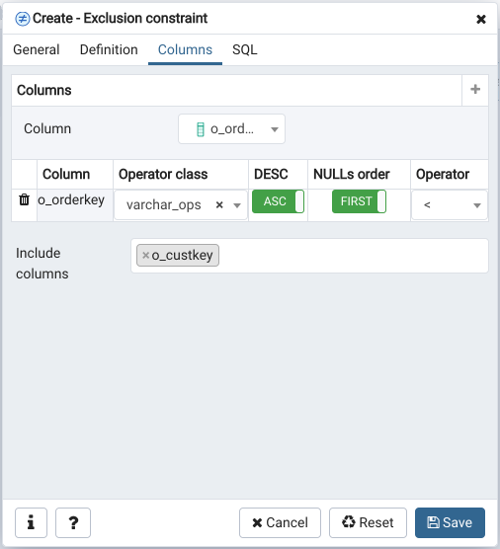
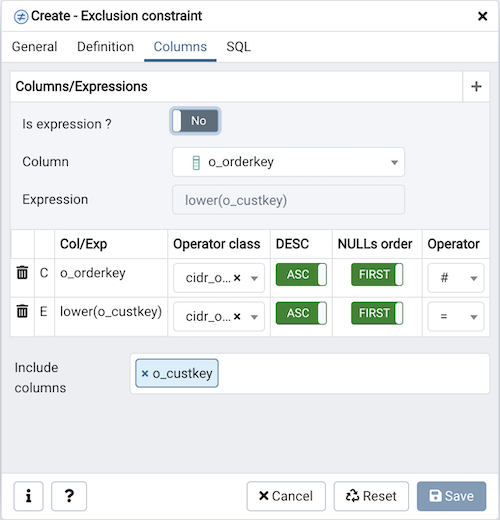
Added support for expression in exclusion constraints. Fixes #5571

diff --git a/web/pgadmin/browser/server_groups/servers/databases/schemas/tables/constraints/exclusion_constraint/static/js/exclusion_constraint.js b/web/pgadmin/browser/server_groups/servers/databases/schemas/tables/constraints/exclusion_constraint/static/js/exclusion_constraint.js
@@ -19,6 +19,7 @@ define('pgadmin.node.exclusion_constraint', [
   var ExclusionConstraintColumnModel = pgBrowser.Node.Model.extend({
     defaults: {
       column: undefined,
+      is_exp: false,
       oper_class: undefined,
       order: false,
       nulls_order: false,
@@ -32,8 +33,20 @@ define('pgadmin.node.exclusion_constraint', [
       return d;
     },
     schema: [{
-      id: 'column', label: gettext('Column'), type:'text', editable: false,
+      id: 'column', label: gettext('Col/Exp'), type:'text', editable: false,
       cell:'string',
+    },{
+      id: 'is_exp', label: '', type:'boolean', editable: false,
+      cell: Backgrid.StringCell.extend({
+        formatter: {
+          fromRaw: function (rawValue) {
+            return rawValue ? 'E' : 'C';
+          },
+          toRaw: function (val) {
+            return val;
+          },
+        },
+      }), visible: false,
     },{
       id: 'oper_class', label: gettext('Operator class'), type:'text',
       node: 'table', url: 'get_oper_class', first_empty: true,
@@ -175,7 +188,7 @@ define('pgadmin.node.exclusion_constraint', [
 
           self.column.set('options', []);
 
-          if (url && !_.isUndefined(col_type) && !_.isNull(col_type) && col_type != '') {
+          if (url) {
             var node = this.column.get('schema_node'),
               eventHandler = m.top || m,
               node_info = this.column.get('node_info'),
@@ -210,9 +223,11 @@ define('pgadmin.node.exclusion_constraint', [
     validate: function() {
       this.errorModel.clear();
       var operator = this.get('operator'),
-        column_name = this.get('column');
+        column_name = this.get('column'),
+        is_exp = this.get('is_exp');
       if (_.isUndefined(operator) || _.isNull(operator)) {
         var msg = gettext('Please specify operator for column: ') + column_name;
+        if(is_exp) msg = gettext('Please specify operator for expression: ') + column_name;
         this.errorModel.set('operator', msg);
         return msg;
       }
@@ -231,8 +246,15 @@ define('pgadmin.node.exclusion_constraint', [
         var self = this,
           node = 'exclusion_constraint',
           headerSchema = [{
-            id: 'column', label:'', type:'text',
-            node: 'column', control: Backform.NodeListByNameControl.extend({
+            id: 'is_exp', label: gettext('Is expression ?'), type: 'switch',
+            control: 'switch', controlLabelClassName: 'control-label pg-el-sm-4 pg-el-12',
+            controlsClassName: 'pgadmin-controls pg-el-sm-6 pg-el-12',
+          },{
+            id: 'column', label: gettext('Column'), type:'text',
+            controlLabelClassName: 'control-label pg-el-sm-4 pg-el-12',
+            controlsClassName: 'pgadmin-controls pg-el-sm-6 pg-el-12',
+            node: 'column', deps: ['is_exp'],
+            control: Backform.NodeListByNameControl.extend({
               initialize: function() {
                 // Here we will decide if we need to call URL
                 // Or fetch the data from parent columns collection
@@ -310,7 +332,8 @@ define('pgadmin.node.exclusion_constraint', [
                 }
               },
               template: _.template([
-                '<div class="<%=Backform.controlsClassName%> <%=extraClasses.join(\' \')%>">',
+                '<span class="<%=controlLabelClassName%>"><%=label%></span>',
+                '<div class="<%=controlsClassName%> <%=extraClasses.join(\' \')%>">',
                 '  <select class="pgadmin-node-select form-control" name="<%=name%>" style="width:100%;" value="<%-value%>" <%=disabled ? "disabled" : ""%> <%=required ? "required" : ""%> >',
                 '    <% for (var i=0; i < options.length; i++) { %>',
                 '    <% var option = options[i]; %>',
@@ -363,10 +386,21 @@ define('pgadmin.node.exclusion_constraint', [
             readonly: function() {
               return !_.isUndefined(self.model.get('oid'));
             },
+            disabled: function(m) {
+              return m.get('is_exp');
+            },
+          },{
+            id: 'exp', label: gettext('Expression'), type: 'text',
+            editable: true, deps: ['is_exp'],
+            controlLabelClassName: 'control-label pg-el-sm-4 pg-el-12',
+            controlsClassName: 'pgadmin-controls pg-el-sm-6 pg-el-12',
+            disabled: function(m) {
+              return !m.get('is_exp');
+            },
           }],
-          headerDefaults = {column: null},
+          headerDefaults = {is_exp: false, column: null, exp: null},
 
-          gridCols = ['column', 'oper_class', 'order', 'nulls_order', 'operator'];
+          gridCols = ['is_exp', 'column', 'oper_class', 'order', 'nulls_order', 'operator'];
 
         self.headerData = new (Backbone.Model.extend({
           defaults: headerDefaults,
@@ -396,21 +430,15 @@ define('pgadmin.node.exclusion_constraint', [
       },
 
       generateHeader: function(data) {
+        var isNew = _.isUndefined(this.model.get('oid'));
         var header = [
-          '<div class="subnode-header-form">',
+          '<div class="subnode-header-form '+ (isNew ? '' : 'd-none') +'">',
           ' <div>',
-          '  <div class="row">',
-          '   <div class="col-4">',
-          '    <label class="control-label"><%-column_label%></label>',
-          '   </div>',
-          '   <div class="col-4" header="column"></div>',
-          '  </div>',
+          '  <div header="is_exp"></div>',
+          '  <div header="column"></div>',
+          '  <div header="exp"></div>',
           ' </div>',
           '</div>'].join('\n');
-
-        _.extend(data, {
-          column_label: gettext('Column'),
-        });
 
         var self = this,
           headerTmpl = _.template(header),
@@ -514,20 +542,24 @@ define('pgadmin.node.exclusion_constraint', [
         }
 
         if (self.control_data.canAdd) {
-          self.collection.each(function(m) {
-            if (!inSelected) {
-              _.each(checkVars, function(v) {
-                if (!inSelected) {
-                  val = m.get(v);
-                  inSelected = ((
-                    (_.isUndefined(val) || _.isNull(val)) &&
-                      (_.isUndefined(data[v]) || _.isNull(data[v]))
-                  ) ||
-                      (val == data[v]));
-                }
-              });
-            }
-          });
+          if(data['is_exp']) {
+            inSelected = false;
+          } else {
+            self.collection.each(function(m) {
+              if (!inSelected) {
+                _.each(checkVars, function(v) {
+                  if (!inSelected) {
+                    val = m.get(v);
+                    inSelected = ((
+                      (_.isUndefined(val) || _.isNull(val)) &&
+                        (_.isUndefined(data[v]) || _.isNull(data[v]))
+                    ) ||
+                        (val == data[v]));
+                  }
+                });
+              }
+            });
+          }
         }
         else {
           inSelected = true;
@@ -538,23 +570,28 @@ define('pgadmin.node.exclusion_constraint', [
 
       addColumns: function(ev) {
         ev.preventDefault();
-        var self = this,
-          column = self.headerData.get('column');
+        var self = this;
+        let newHeaderData = {
+          is_exp: self.headerData.get('is_exp'),
+          column: self.headerData.get('is_exp') ? self.headerData.get('exp') : self.headerData.get('column'),
+        };
 
-        if (column && column != '') {
+        if (newHeaderData.column && newHeaderData.column != '') {
           var coll = self.model.get(self.field.get('name')),
             m = new (self.field.get('model'))(
-              self.headerData.toJSON(), {
+              newHeaderData, {
                 silent: true, top: self.model.top,
                 collection: coll, handler: coll,
               }),
             col_types =self.field.get('col_types') || [];
 
-          for(var i=0; i < col_types.length; i++) {
-            var col_type = col_types[i];
-            if (col_type['name'] ==  m.get('column')) {
-              m.set({'col_type':col_type['type']});
-              break;
+          if(!m.get('is_exp')) {
+            for(var i=0; i < col_types.length; i++) {
+              var col_type = col_types[i];
+              if (col_type['name'] ==  m.get('column')) {
+                m.set({'col_type':col_type['type']});
+                break;
+              }
             }
           }
 
@@ -786,7 +823,7 @@ define('pgadmin.node.exclusion_constraint', [
                 !_.isUndefined(m.get('oid'))) || (_.isFunction(m.isNew) && !m.isNew()));
           },
         },{
-          id: 'columns', label: gettext('Columns'),
+          id: 'columns', label: gettext('Columns/Expressions'),
           type: 'collection', group: gettext('Columns'),
           deps:['amname'], canDelete: true, editable: false,
           canAdd: function(m) {

diff --git a/web/pgadmin/static/js/backform.pgadmin.js b/web/pgadmin/static/js/backform.pgadmin.js
@@ -259,9 +259,13 @@ define([
    */
   _.extend(
     Backform.InputControl.prototype, {
+      defaults: _.extend(Backform.InputControl.prototype.defaults, {
+        controlLabelClassName: Backform.controlLabelClassName,
+        controlsClassName: Backform.controlsClassName,
+      }),
       template: _.template([
-        '<label class="<%=Backform.controlLabelClassName%>" for="<%=cId%>"><%=label%></label>',
-        '<div class="<%=Backform.controlContainerClassName%>">',
+        '<label class="<%=controlLabelClassName%>" for="<%=cId%>"><%=label%></label>',
+        '<div class="<%=controlsClassName%>">',
         '  <input type="<%=type%>" id="<%=cId%>" class="<%=Backform.controlClassName%> <%=extraClasses.join(\' \')%>" name="<%=name%>" maxlength="<%=maxlength%>" value="<%-value%>" placeholder="<%-placeholder%>" <%=disabled ? "disabled" : ""%> <%=readonly ? "readonly aria-readonly=true" : ""%> <%=required ? "required" : ""%> />',
         '  <% if (helpMessage && helpMessage.length) { %>',
         '    <span class="<%=Backform.helpMessageClassName%>"><%=helpMessage%></span>',

diff --git a/web/pgadmin/browser/server_groups/servers/databases/schemas/tables/constraints/exclusion_constraint/__init__.py b/web/pgadmin/browser/server_groups/servers/databases/schemas/tables/constraints/exclusion_constraint/__init__.py
@@ -778,57 +778,17 @@ class ExclusionConstraintView(PGChildNodeView):
 
         """
         try:
-            SQL = render_template(
-                "/".join([self.template_path, self._PROPERTIES_SQL]),
-                did=did, tid=tid, conn=self.conn, cid=exid)
-            status, result = self.conn.execute_dict(SQL)
+            status, rows = exclusion_utils.get_exclusion_constraints(
+                self.conn, did, tid, exid, template_path=self.template_path
+            )
             if not status:
-                return internal_server_error(errormsg=result)
-            if len(result['rows']) == 0:
+                return rows
+            if len(rows) == 0:
                 return gone(_("Could not find the exclusion constraint."))
 
-            data = result['rows'][0]
+            data = rows[0]
             data['schema'] = self.schema
             data['table'] = self.table
-
-            sql = render_template(
-                "/".join([self.template_path, 'get_constraint_cols.sql']),
-                cid=exid,
-                colcnt=data['col_count'])
-            status, res = self.conn.execute_dict(sql)
-
-            if not status:
-                return internal_server_error(errormsg=res)
-
-            columns = []
-            for row in res['rows']:
-                nulls_order = True if (row['options'] & 2) else False
-                order = False if row['options'] & 1 else True
-                columns.append({"column": row['coldef'].strip('"'),
-                                "oper_class": row['opcname'],
-                                "order": order,
-                                "nulls_order": nulls_order,
-                                "operator": row['oprname']
-                                })
-
-            data['columns'] = columns
-
-            # Add Include details of the index supported for PG-11+
-            if self.manager.version >= 110000:
-                sql = render_template(
-                    "/".join(
-                        [self.template_path, 'get_constraint_include.sql']
-                    ),
-                    cid=exid)
-                status, res = self.conn.execute_dict(sql)
-
-                if not status:
-                    return internal_server_error(errormsg=res)
-
-                data['include'] = [col['colname'] for col in res['rows']]
-
-            if data.get('amname', '') == "":
-                data['amname'] = 'btree'
 
             SQL = render_template(
                 "/".join([self.template_path, self._CREATE_SQL]), data=data)

diff --git a/web/pgadmin/browser/server_groups/servers/databases/schemas/tables/__init__.py b/web/pgadmin/browser/server_groups/servers/databases/schemas/tables/__init__.py
@@ -560,17 +560,16 @@ class TableView(BaseTableView, DataTypeReader, VacuumSettings,
         Returns:
 
         """
-        data = request.args if request.args else None
+        data = request.args
         try:
-            if data and 'col_type' in data:
-                result = exclusion_utils.get_operator(
-                    self.conn, data['col_type'],
-                    self.blueprint.show_system_objects)
+            result = exclusion_utils.get_operator(
+                self.conn, data.get('col_type', None),
+                self.blueprint.show_system_objects)
 
-                return make_json_response(
-                    data=result,
-                    status=200
-                )
+            return make_json_response(
+                data=result,
+                status=200
+            )
         except Exception as e:
             return internal_server_error(errormsg=str(e))
 

diff --git a/web/pgadmin/browser/server_groups/servers/databases/schemas/tables/constraints/exclusion_constraint/utils.py b/web/pgadmin/browser/server_groups/servers/databases/schemas/tables/constraints/exclusion_constraint/utils.py
@@ -79,7 +79,8 @@ def _get_columns(res):
                         "order": order,
                         "nulls_order": nulls_order,
                         "operator": row['oprname'],
-                        "col_type": row['datatype']
+                        "col_type": row['datatype'],
+                        "is_exp": row['is_exp']
                         })
     return columns
 
@@ -126,6 +127,9 @@ def get_exclusion_constraints(conn, did, tid, exid=None, template_path=None):
                 return status, internal_server_error(errormsg=res)
 
             ex['include'] = [col['colname'] for col in res['rows']]
+
+        if ex.get('amname', '') == "":
+            ex['amname'] = 'btree'
 
     return True, result['rows']
 

diff --git a/docs/en_US/exclusion_constraint_dialog.rst b/docs/en_US/exclusion_constraint_dialog.rst
@@ -58,13 +58,15 @@ Click the *Columns* tab to continue.
     :alt: Exclusion constraint dialog columns tab
     :align: center
 
-Use the fields in the *Columns* tab to to specify the column(s) to which the
-constraint applies. Use the drop-down listbox next to *Column* to select a
-column and click the *Add* icon (+) to provide details of the action on the
-column:
+Use the fields in the *Columns* tab to specify the column(s) or expression(s)
+to which the constraint applies. Use the *Is expression ?* switch to enable
+expression text input. Use the drop-down listbox next to *Column*
+to select a column. Once the *Column* is selected or the *Expression* is
+entered then click the *Add* icon (+) to provide details of the action on the
+column/expression:
 
-* The *Column* field is populated with the selection made in the *Column*
-  drop-down listbox.
+* The *Col/Exp* field is populated with the selection made in the *Column*
+  drop-down listbox or the *Expression* entered.
 * If applicable, use the drop-down listbox in the *Operator class* to specify
   the operator class that will be used by the index for the column.
 * Move the *DESC* switch to *DESC* to specify a descending sort order. The

diff --git a/docs/en_US/release_notes_4_30.rst b/docs/en_US/release_notes_4_30.rst
@@ -19,6 +19,7 @@ Housekeeping
 Bug fixes
 *********
 
+| `Issue #5571 <https://redmine.postgresql.org/issues/5571>`_ -  Added support for expression in exclusion constraints.
 | `Issue #5875 <https://redmine.postgresql.org/issues/5875>`_ -  Ensure that the 'template1' database should not be visible after pg_upgrade.
 | `Issue #5965 <https://redmine.postgresql.org/issues/5965>`_ -  Ensure that the macro query result should be download properly.
 | `Issue #5973 <https://redmine.postgresql.org/issues/5973>`_ -  Added appropriate help message and a placeholder for letting users know about the account password expiry for Login/Group Role.
